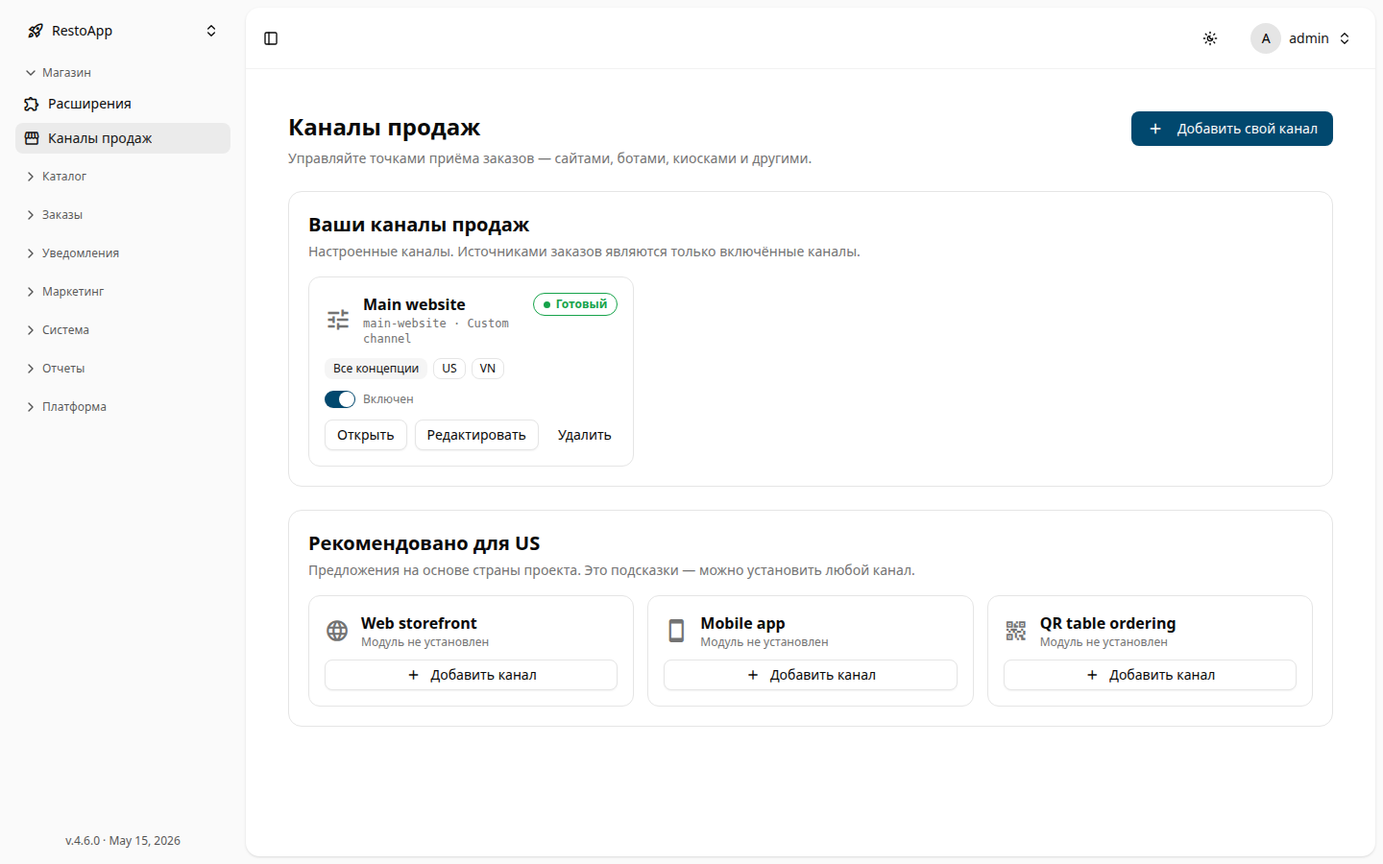
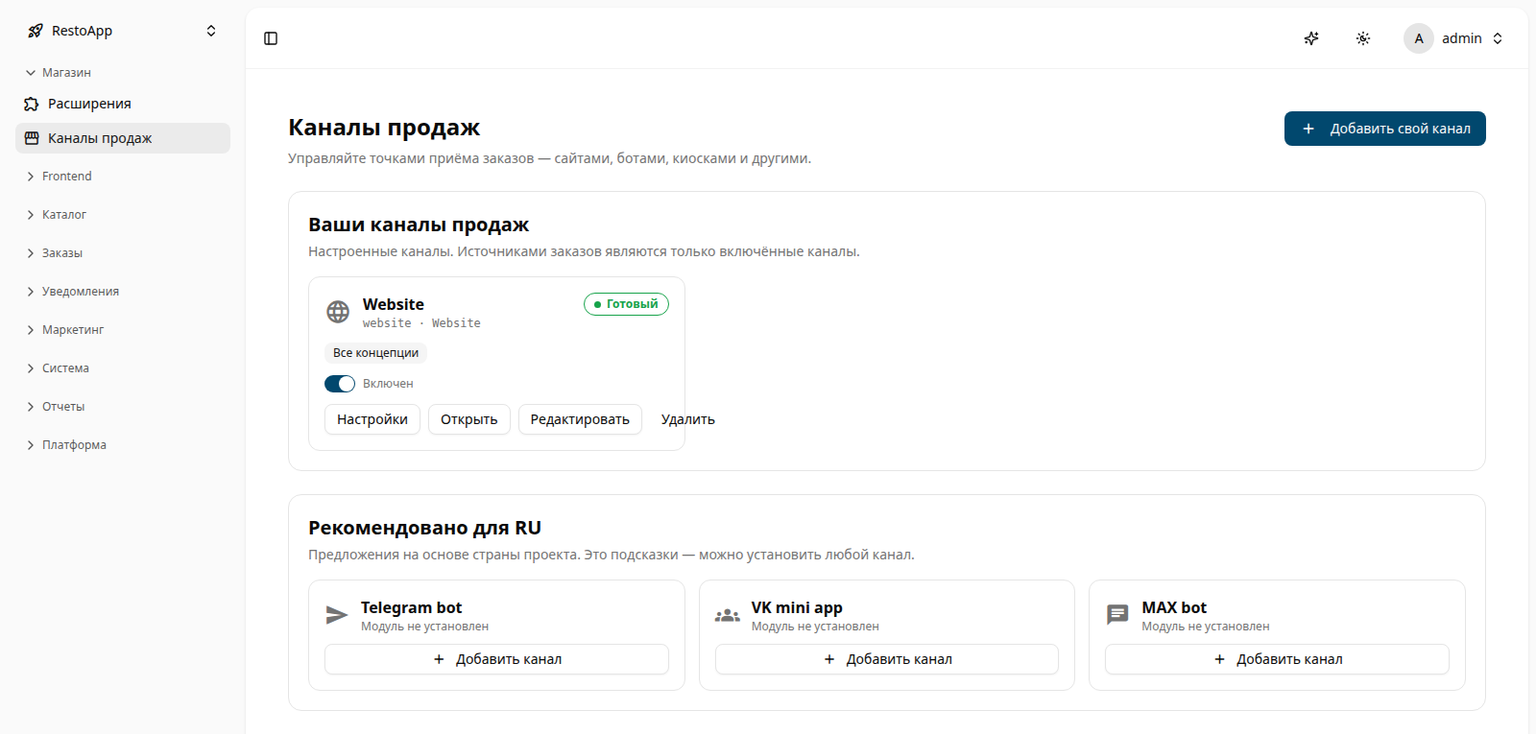
add new chapters

diff --git a/docs/sales-channels.ru.md b/docs/sales-channels.ru.md
@@ -32,14 +32,18 @@
 
 ## Структура страницы
 
-<!-- TODO screenshot: sales_channels_overview.png -->
+<figure markdown="1">
+  <div class="annotated-screenshot" data-annotation-config="../../screenshots/sales_channels_overview.ru.annotate.yml" markdown="1">
+![Обзор каналов продаж](screenshots/sales_channels_overview.png){ loading=lazy }
+  </div>
+  <figcaption>Рисунок 1: Страница «Каналы продаж» — ваши каналы, рекомендации и создание своего канала.</figcaption>
+</figure>
 
 Страница состоит из трёх блоков:
 
-1. **Your sales channels** (Ваши каналы продаж) — настроенные вами каналы.
-2. **Recommended for your country** (Рекомендовано для вашей страны) — предлагаемые типы на
-   основе страны проекта.
-3. **Add custom channel** (Добавить свой канал) — создать канал вручную.
+1. **Ваши каналы продаж** — настроенные вами каналы.
+2. **Рекомендовано для вашей страны** — предлагаемые типы на основе страны проекта.
+3. **Добавить свой канал** — создать канал вручную.
 
 ### Ваши каналы продаж
 
@@ -48,16 +52,21 @@
 - **название**, **ключ** и **тип**;
 - **бейдж статуса** (см. [Статусы](#статусы));
 - привязанные **концепции** и **страны** в виде тегов (канал без концепций показывает
-  *All concepts* — все концепции);
-- переключатель **Enabled / Disabled** (Включён / Отключён);
-- действия **Open** (Открыть, если задан URL), **Edit** (Редактировать) и **Delete** (Удалить).
+  *Все концепции*);
+- переключатель **Включён / Отключён**;
+- действия **Открыть** (если задан URL), **Редактировать** и **Удалить**.
 
 Если каналов ещё нет, пустое состояние предлагает создать первый канал или выбрать
 рекомендованный.
 
 ### Рекомендовано для вашей страны
 
-<!-- TODO screenshot: sales_channels_recommended.png -->
+<figure markdown="1">
+  <div class="annotated-screenshot" data-annotation-config="../../screenshots/sales_channels_recommended.ru.annotate.yml" markdown="1">
+![Рекомендованные каналы](screenshots/sales_channels_recommended.png){ loading=lazy }
+  </div>
+  <figcaption>Рисунок 2: Типы каналов, рекомендованные для вашей страны.</figcaption>
+</figure>
 
 RestoApp предлагает типы каналов, подходящие вашему рынку (задаётся в
 **Settings → `COUNTRY_ISO`**), например:
@@ -70,31 +79,36 @@ RestoApp предлагает типы каналов, подходящие ва
 | *Любая другая* | Web storefront, Mobile app, QR table ordering |
 
 Это **подсказки, а не правила** — на карточке видно, установлен ли модуль-провайдер, а
-кнопка **Add channel** заранее заполняет редактор этим типом. Любой канал можно создать
+кнопка **Добавить канал** заранее заполняет редактор этим типом. Любой канал можно создать
 независимо от страны.
 
 ---
 
 ## Создание / редактирование канала
 
-<!-- TODO screenshot: sales_channels_editor.png -->
+<figure markdown="1">
+  <div class="annotated-screenshot" data-annotation-config="../../screenshots/sales_channels_editor.ru.annotate.yml" markdown="1">
+![Редактор канала](screenshots/sales_channels_editor.png){ loading=lazy }
+  </div>
+  <figcaption>Рисунок 3: Создание или редактирование канала продаж.</figcaption>
+</figure>
 
-Нажмите **Add custom channel**, либо **Add channel** на рекомендованной карточке, либо
-**Edit** на существующем канале. Поля редактора:
+Нажмите **Добавить свой канал**, либо **Добавить канал** на рекомендованной карточке, либо
+**Редактировать** на существующем канале. Поля редактора:
 
 | Поле | Описание |
 |------|----------|
-| **Title** *(обязательное)* | Понятное название, например *Основной сайт*. |
-| **Channel key** | Стабильный слаг, записываемый в источник каждого заказа (`orderedOnPlatform`). Для новых каналов формируется из названия; должен быть уникальным. |
-| **Type** | Тип канала (из установленного/известного каталога). По умолчанию — *Custom channel* (свой канал). |
-| **URL / link** | Публичный URL или ссылка (адрес витрины, ссылка на бота). Используется кнопкой **Open**. |
-| **Countries** | ISO-коды стран, где работает канал, через запятую (например, `VN, TH`). |
-| **Concepts** | Список разрешённых концепций. **Оставьте пустым, чтобы разрешить все**; иначе канал использует только выбранные. |
-| **Default concept** | Концепция по умолчанию (должна входить в выбранные). |
-| **Allow concept switching** | Разрешает витрине/боту показывать выбор концепции, если привязано несколько. |
-| **Enabled** | Главный выключатель. **Источниками заказов являются только включённые каналы.** |
+| **Заголовок** *(обязательное)* | Понятное название, например *Основной сайт*. |
+| **Ключ канала** | Стабильный слаг, записываемый в источник каждого заказа (`orderedOnPlatform`). Для новых каналов формируется из названия; должен быть уникальным. |
+| **Тип** | Тип канала (из установленного/известного каталога). По умолчанию — *Custom channel* (свой канал). |
+| **URL / ссылка** | Публичный URL или ссылка (адрес витрины, ссылка на бота). Используется кнопкой **Открыть**. |
+| **Страны (ISO, через запятую)** | ISO-коды стран, где работает канал, через запятую (например, `VN, TH`). |
+| **Концепты** | Список разрешённых концепций. **Оставьте пустым, чтобы разрешить все**; иначе канал использует только выбранные. |
+| **Концепция по умолчанию** | Концепция по умолчанию (должна входить в выбранные). |
+| **Разрешить переключение концепций на фронтенде/в боте** | Разрешает витрине/боту показывать выбор концепции, если привязано несколько. |
+| **Включён (действительный источник заказов)** | Главный выключатель. **Источниками заказов являются только включённые каналы.** |
 
-**Save channel** сохраняет канал, **Cancel** отменяет черновик.
+**Сохранить канал** сохраняет канал, **Отмена** отменяет черновик.
 
 > **Привязка концепций** — это способ обслуживать несколько меню из одной операционной базы:
 > например, сайт для `origin`, отдельная витрина для `burgers`, канал LINE только для
@@ -150,4 +164,4 @@ RestoApp предлагает типы каналов, подходящие ва
 ## 📱 Мобильная версия
 
 Страница адаптивна. На телефоне карточки каналов выстраиваются в один столбец, а редактор
-открывается на всю ширину; для возврата к списку используйте **Cancel**.
+открывается на всю ширину; для возврата к списку используйте **Отмена**.

diff --git a/docs/stock-manager.ru.md b/docs/stock-manager.ru.md
@@ -7,9 +7,9 @@
 ## 🚫 Стоп-лист (Нет в наличии)
 Здесь отображаются все позиции, которые в данный момент находятся в стопе. Это первоначальный список, который актуализируется напрямую из RMS (iiko).
 
-<figure>
-  <div class="annotated-screenshot" data-annotation-config="screenshots/stock_out_of_stock.annotate.yml">
-    <img src="screenshots/stock_out_of_stock.png" alt="Нет в наличии" loading="lazy">
+<figure markdown="1">
+  <div class="annotated-screenshot" data-annotation-config="../../screenshots/stock_out_of_stock.annotate.yml" markdown="1">
+![Нет в наличии](screenshots/stock_out_of_stock.png){ loading=lazy }
   </div>
   <figcaption>Рисунок 1: Список позиций в Стоп-листе.</figcaption>
 </figure>
@@ -17,9 +17,9 @@
 ## 🔍 Обзор склада
 Далее мы можем перейти во вкладку **Обзор**, где есть возможность перемещаться по папкам и категориям меню.
 
-<figure>
-  <div class="annotated-screenshot" data-annotation-config="screenshots/stock_overview.annotate.yml">
-    <img src="screenshots/stock_overview.png" alt="Обзор склада" loading="lazy">
+<figure markdown="1">
+  <div class="annotated-screenshot" data-annotation-config="../../screenshots/stock_overview.annotate.yml" markdown="1">
+![Обзор склада](screenshots/stock_overview.png){ loading=lazy }
   </div>
   <figcaption>Рисунок 2: Вкладка Обзора и навигации по папкам Менеджера склада.</figcaption>
 </figure>
@@ -32,9 +32,9 @@
 ### Управление внутри группы (Действия с блюдом)
 Зайдя внутрь группы, мы управляем карточками конкретных блюд. Здесь доступны рычаги управления состоянием позиции.
 
-<figure>
-  <div class="annotated-screenshot" data-annotation-config="screenshots/stock_product_actions.annotate.yml">
-    <img src="screenshots/stock_product_actions.png" alt="Действия с блюдом" loading="lazy">
+<figure markdown="1">
+  <div class="annotated-screenshot" data-annotation-config="../../screenshots/stock_product_actions.annotate.yml" markdown="1">
+![Действия с блюдом](screenshots/stock_product_actions.png){ loading=lazy }
   </div>
   <figcaption>Рисунок 3: Управление состоянием блюда внутри группы.</figcaption>
 </figure>

diff --git a/docs/sales-channels.md b/docs/sales-channels.md
@@ -32,7 +32,12 @@ free-text label into a managed list, which gives you:
 
 ## Page layout
 
-<!-- TODO screenshot: sales_channels_overview.png -->
+<figure>
+  <div class="annotated-screenshot" data-annotation-config="screenshots/sales_channels_overview.en.annotate.yml">
+    <img src="screenshots/sales_channels_overview.png" alt="Sales Channels overview" loading="lazy">
+  </div>
+  <figcaption>Figure 1: The Sales Channels page — your channels, recommendations, and custom channel creation.</figcaption>
+</figure>
 
 The page has three areas:
 
@@ -56,7 +61,12 @@ recommended one.
 
 ### Recommended for your country
 
-<!-- TODO screenshot: sales_channels_recommended.png -->
+<figure>
+  <div class="annotated-screenshot" data-annotation-config="screenshots/sales_channels_recommended.en.annotate.yml">
+    <img src="screenshots/sales_channels_recommended.png" alt="Recommended channels" loading="lazy">
+  </div>
+  <figcaption>Figure 2: Channel types recommended for your country.</figcaption>
+</figure>
 
 RestoApp suggests channel types that fit your market (set in **Settings → `COUNTRY_ISO`**),
 for example:
@@ -76,7 +86,12 @@ regardless of country.
 
 ## Creating / editing a channel
 
-<!-- TODO screenshot: sales_channels_editor.png -->
+<figure>
+  <div class="annotated-screenshot" data-annotation-config="screenshots/sales_channels_editor.en.annotate.yml">
+    <img src="screenshots/sales_channels_editor.png" alt="Channel editor" loading="lazy">
+  </div>
+  <figcaption>Figure 3: Creating or editing a sales channel.</figcaption>
+</figure>
 
 Use **Add custom channel**, or **Add channel** on a recommended card, or **Edit** on an
 existing one. The editor fields:

diff --git a/docs/marketing.ru.md b/docs/marketing.ru.md
@@ -20,9 +20,9 @@
 
 ### Панель (Dashboard)
 
-<figure>
-  <div class="annotated-screenshot" data-annotation-config="screenshots/marketing_promocodes_dashboard.ru.annotate.yml">
-    <img src="screenshots/marketing_promocodes_dashboard.ru.png" alt="Дашборд промокодов" loading="lazy">
+<figure markdown="1">
+  <div class="annotated-screenshot" data-annotation-config="../../screenshots/marketing_promocodes_dashboard.ru.annotate.yml" markdown="1">
+![Дашборд промокодов](screenshots/marketing_promocodes_dashboard.png){ loading=lazy }
   </div>
   <figcaption>Дашборд промокодов — карточки KPI, графики и выбор периода.</figcaption>
 </figure>
@@ -94,9 +94,9 @@ Stacks/Exclusive, Storefront, 🎁 Gift).
 
 ### Форма настраиваемой акции
 
-<figure>
-  <div class="annotated-screenshot" data-annotation-config="screenshots/marketing_promotions_form.ru.annotate.yml">
-    <img src="screenshots/marketing_promotions_form.ru.png" alt="Форма настраиваемой акции" loading="lazy">
+<figure markdown="1">
+  <div class="annotated-screenshot" data-annotation-config="../../screenshots/marketing_promotions_form.ru.annotate.yml" markdown="1">
+![Форма настраиваемой акции](screenshots/marketing_promotions_form.png){ loading=lazy }
   </div>
   <figcaption>Редактор настраиваемой акции — переключатель Форма / JSON, тип скидки, Сохранить / Удалить.</figcaption>
 </figure>

diff --git a/docs/notifications-manager.ru.md b/docs/notifications-manager.ru.md
@@ -13,9 +13,9 @@
 - **Группа** — тип получателей (`user`, `manager` и т.д.)
 - **Время создания**
 
-<figure>
-  <div class="annotated-screenshot" data-annotation-config="screenshots/notifications_list.annotate.yml">
-    <img src="screenshots/notifications_list.png" alt="Список уведомлений" loading="lazy">
+<figure markdown="1">
+  <div class="annotated-screenshot" data-annotation-config="../../screenshots/notifications_list.annotate.yml" markdown="1">
+![Список уведомлений](screenshots/notifications_list.png){ loading=lazy }
   </div>
   <figcaption>Рисунок 1: Список истории уведомлений с фильтрами.</figcaption>
 </figure>
@@ -44,9 +44,9 @@
 - **Delivery attempts** — количество попыток доставки
 - **ID** — уникальный идентификатор
 
-<figure>
-  <div class="annotated-screenshot" data-annotation-config="screenshots/notifications_detail.annotate.yml">
-    <img src="screenshots/notifications_detail.png" alt="Детали уведомления" loading="lazy">
+<figure markdown="1">
+  <div class="annotated-screenshot" data-annotation-config="../../screenshots/notifications_detail.annotate.yml" markdown="1">
+![Детали уведомления](screenshots/notifications_detail.png){ loading=lazy }
   </div>
   <figcaption>Рисунок 2: Панель деталей уведомления с кнопкой повторной отправки.</figcaption>
 </figure>

diff --git a/docs/settings-manager.ru.md b/docs/settings-manager.ru.md
@@ -12,9 +12,9 @@
 - **Value** — текущее значение
 - **Type** — тип значения: `string`, `boolean`, `json`
 
-<figure>
-  <div class="annotated-screenshot" data-annotation-config="screenshots/settings_list.annotate.yml">
-    <img src="screenshots/settings_list.png" alt="Список настроек" loading="lazy">
+<figure markdown="1">
+  <div class="annotated-screenshot" data-annotation-config="../../screenshots/settings_list.annotate.yml" markdown="1">
+![Список настроек](screenshots/settings_list.png){ loading=lazy }
   </div>
   <figcaption>Рисунок 1: Список системных настроек с типами значений.</figcaption>
 </figure>
@@ -33,9 +33,9 @@
 
 Нажатие на строку в таблице открывает правую панель редактирования:
 
-<figure>
-  <div class="annotated-screenshot" data-annotation-config="screenshots/settings_edit.annotate.yml">
-    <img src="screenshots/settings_edit.png" alt="Редактирование настройки" loading="lazy">
+<figure markdown="1">
+  <div class="annotated-screenshot" data-annotation-config="../../screenshots/settings_edit.annotate.yml" markdown="1">
+![Редактирование настройки](screenshots/settings_edit.png){ loading=lazy }
   </div>
   <figcaption>Рисунок 2: Панель редактирования настройки с переключателем boolean-значения.</figcaption>
 </figure>

diff --git a/docs/catalog.ru.md b/docs/catalog.ru.md
@@ -23,7 +23,16 @@
 *Рисунок 2: Контекстное меню для действий с продуктом (Редактировать, Просмотреть, Удалить).*
 
 ## 📝 Редактирование блюд и каталогов
-Подробную информацию о продукте также можно найти в разделе **Платформа (Platform)** -> **Продукты (Products)**.
+Выбрав блюдо в дереве и нажав **Редактировать**, вы открываете форму редактирования со всеми
+атрибутами блюда. Подробную информацию о продукте также можно найти в разделе
+**Платформа (Platform)** -> **Продукты (Products)**.
+
+<figure markdown="1">
+  <div class="annotated-screenshot" data-annotation-config="../../screenshots/catalog_dish_edit.ru.annotate.yml" markdown="1">
+![Форма редактирования блюда](screenshots/catalog_dish_edit.png){ loading=lazy }
+  </div>
+  <figcaption>Рисунок 3: Форма редактирования блюда — SKU, описание, название, SEO-метаданные и кнопка «Сохранить».</figcaption>
+</figure>
 
 **Основные атрибуты при редактировании:**
 *   **SKU**: Технический уникальный идентификатор (артикул).

diff --git a/docs/fcm-settings.ru.md b/docs/fcm-settings.ru.md
@@ -11,9 +11,9 @@
 - **Not configured** — сервисный ключ Firebase не загружен, отправка уведомлений невозможна
 - **Configured** — ключ загружен, канал активен
 
-<figure>
-  <div class="annotated-screenshot" data-annotation-config="screenshots/fcm_settings.annotate.yml">
-    <img src="screenshots/fcm_settings.png" alt="Настройки FCM Mobile push" loading="lazy">
+<figure markdown="1">
+  <div class="annotated-screenshot" data-annotation-config="../../screenshots/fcm_settings.annotate.yml" markdown="1">
+![Настройки FCM Mobile push](screenshots/fcm_settings.png){ loading=lazy }
   </div>
   <figcaption>Рисунок 1: Страница настройки FCM Mobile push с формой загрузки Service account JSON.</figcaption>
 </figure>

diff --git a/docs/notification-channels.ru.md b/docs/notification-channels.ru.md
@@ -11,9 +11,9 @@
 
 ## Список каналов
 
-<figure>
-  <div class="annotated-screenshot" data-annotation-config="screenshots/notification_channels_list.ru.annotate.yml">
-    <img src="screenshots/notification_channels_list.ru.png" alt="Список каналов уведомлений" loading="lazy">
+<figure markdown="1">
+  <div class="annotated-screenshot" data-annotation-config="../../screenshots/notification_channels_list.ru.annotate.yml" markdown="1">
+![Список каналов уведомлений](screenshots/notification_channels_list.png){ loading=lazy }
   </div>
   <figcaption>Список каналов уведомлений со статусом, переключателем включения и весом по каждому каналу.</figcaption>
 </figure>

diff --git a/docs/orders-report.ru.md b/docs/orders-report.ru.md
@@ -13,9 +13,9 @@
 - **Apply** — кнопка применения выбранного диапазона
 - **Кнопка обновления** (↺) — перезагрузить данные
 
-<figure>
-  <div class="annotated-screenshot" data-annotation-config="screenshots/orders_report.annotate.yml">
-    <img src="screenshots/orders_report.png" alt="Отчёт по заказам" loading="lazy">
+<figure markdown="1">
+  <div class="annotated-screenshot" data-annotation-config="../../screenshots/orders_report.annotate.yml" markdown="1">
+![Отчёт по заказам](screenshots/orders_report.png){ loading=lazy }
   </div>
   <figcaption>Рисунок 1: Сводный отчёт по заказам за июнь с разбивкой по статусам.</figcaption>
 </figure>

diff --git a/docs/setup-checklist.ru.md b/docs/setup-checklist.ru.md
@@ -7,9 +7,9 @@
 
 ## Обзор
 
-<figure>
-  <div class="annotated-screenshot" data-annotation-config="screenshots/setup_checklist_overview.ru.annotate.yml">
-    <img src="screenshots/setup_checklist_overview.ru.png" alt="Обзор чек-листа настройки" loading="lazy">
+<figure markdown="1">
+  <div class="annotated-screenshot" data-annotation-config="../../screenshots/setup_checklist_overview.ru.annotate.yml" markdown="1">
+![Обзор чек-листа настройки](screenshots/setup_checklist_overview.png){ loading=lazy }
   </div>
   <figcaption>Чек-лист настройки — сводка прогресса, статус по пунктам и ссылки Перейти к настройке.</figcaption>
 </figure>
